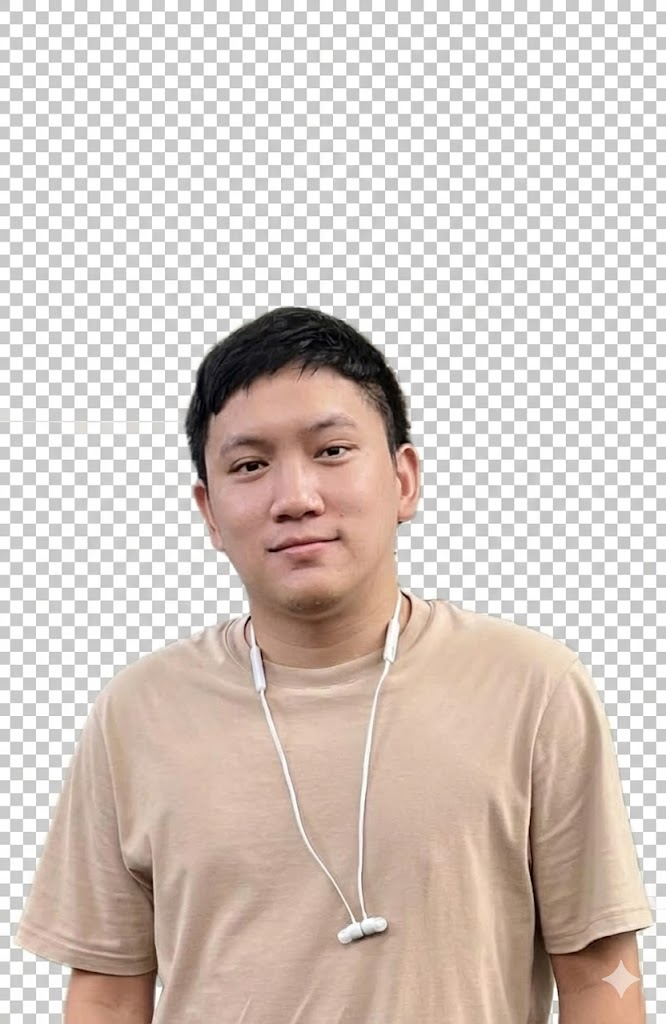
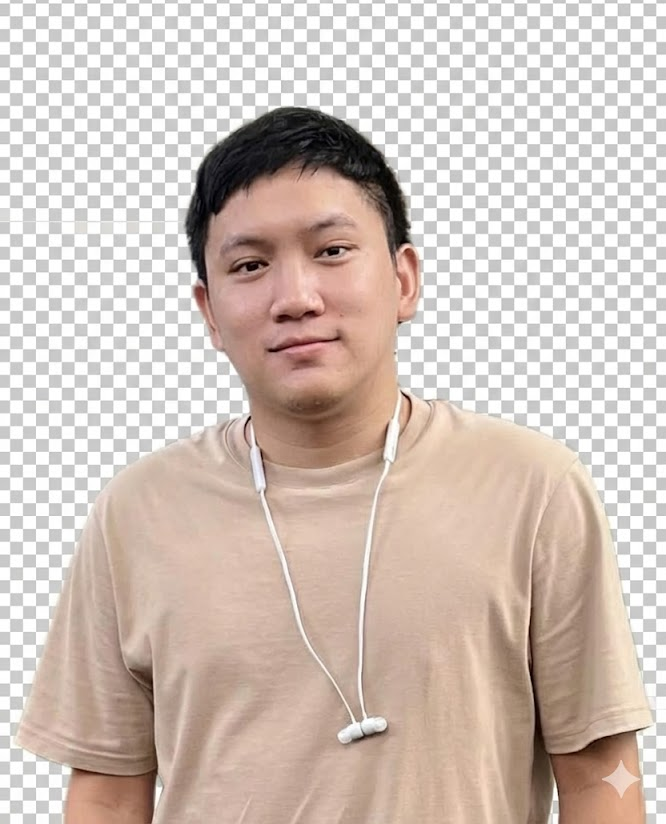
Updated

diff --git a/src/components/HeroSection.vue b/src/components/HeroSection.vue
@@ -39,7 +39,7 @@
                     target="_blank"
                     class="hero__cta"
                   >
-                    <span class="hero__cta-text">Know me more</span>
+                    <span class="hero__cta-text">Play a game to know me better</span>
                     <div class="hero__cta-icon">
                       <svg
                         viewBox="0 0 24 24"
@@ -102,7 +102,7 @@ export default {
       default: "UI/UX Interaction Designer\nBased in Poland",
     },
     biography: { type: String, default: "หาเงินเลี้ยงแมวครับ" },
-    profileImage: { type: String, default: "/sanookdev.png" },
+    profileImage: { type: String, default: "/profile-1.png" },
     techCategories: {
       type: Array,
       default: () => [
@@ -264,38 +264,102 @@ export default {
   transform: translateX(4px);
 }
 
-/* The Highlighted Button */
+/* The Highlighted Button - Glassmorphism Style */
 .hero__cta {
   position: relative;
   display: inline-flex;
   align-items: center;
-  gap: 16px;
-  padding: 14px 28px;
-  background-color: var(--color-text); /* ใช้ตัวแปรสีตาม Theme */
-  color: var(--color-bg); /* ใช้ตัวแปรสีตาม Theme */
+  gap: 12px;
+  padding: 16px 32px;
+  background: linear-gradient(135deg, rgba(255, 255, 255, 0.1), rgba(255, 255, 255, 0.05));
+  backdrop-filter: blur(10px);
+  -webkit-backdrop-filter: blur(10px);
+  color: var(--color-text);
   border-radius: 100px;
   text-decoration: none;
   font-weight: 600;
-  font-size: 15px;
+  font-size: 14px;
   overflow: hidden;
   transition: all 0.4s cubic-bezier(0.175, 0.885, 0.32, 1.275);
-  box-shadow: 0 10px 20px rgba(0, 0, 0, 0.1);
+  box-shadow: 
+    0 8px 32px rgba(0, 0, 0, 0.1),
+    inset 0 0 0 1px rgba(255, 255, 255, 0.2);
+  border: 1px solid rgba(255, 255, 255, 0.18);
+}
+
+/* Animated gradient border */
+.hero__cta::after {
+  content: "";
+  position: absolute;
+  inset: -2px;
+  border-radius: 100px;
+  background: linear-gradient(
+    135deg,
+    #667eea,
+    #764ba2,
+    #f093fb,
+    #f5576c,
+    #4facfe,
+    #00f2fe,
+    #667eea
+  );
+  background-size: 300% 300%;
+  z-index: -1;
+  animation: gradient-rotate 4s ease infinite;
+  opacity: 0;
+  transition: opacity 0.4s ease;
+}
+
+@keyframes gradient-rotate {
+  0% { background-position: 0% 50%; }
+  50% { background-position: 100% 50%; }
+  100% { background-position: 0% 50%; }
+}
+
+.hero__cta:hover::after {
+  opacity: 1;
+}
+
+.hero__cta-text {
+  position: relative;
+  z-index: 1;
+}
+
+.hero__cta-icon {
+  position: relative;
+  z-index: 1;
+  display: flex;
+  align-items: center;
+  justify-content: center;
+  width: 28px;
+  height: 28px;
+  background: linear-gradient(135deg, #667eea, #764ba2);
+  border-radius: 50%;
+  transition: all 0.4s ease;
 }
 
 .hero__cta-icon svg {
-  width: 18px;
-  height: 18px;
+  width: 14px;
+  height: 14px;
+  color: white;
   transition: transform 0.4s ease;
 }
 
 .hero__cta:hover {
-  transform: translateY(-5px);
-  box-shadow: 0 15px 30px rgba(0, 0, 0, 0.15);
-  /* ลบ background-color: #000; ออกแล้ว เพื่อให้ใช้สีจาก var(--color-text) เหมือนเดิม */
+  transform: translateY(-5px) scale(1.02);
+  box-shadow: 
+    0 20px 40px rgba(102, 126, 234, 0.3),
+    inset 0 0 0 1px rgba(255, 255, 255, 0.3);
+  background: linear-gradient(135deg, rgba(255, 255, 255, 0.15), rgba(255, 255, 255, 0.08));
 }
 
 .hero__cta:hover .hero__cta-icon {
-  transform: translateX(5px);
+  transform: translateX(4px) rotate(45deg);
+  background: linear-gradient(135deg, #f093fb, #f5576c);
+}
+
+.hero__cta:hover .hero__cta-icon svg {
+  transform: rotate(-45deg);
 }
 
 /* Shine Animation */
@@ -309,14 +373,25 @@ export default {
   background: linear-gradient(
     120deg,
     transparent,
-    rgba(255, 255, 255, 0.3),
-    /* สีขาวจางๆ สำหรับ Shine */ transparent
+    rgba(255, 255, 255, 0.4),
+    transparent
   );
   transition: all 0.6s;
+  z-index: 1;
 }
 
 .hero__cta:hover::before {
   left: 100%;
+}
+
+/* Floating animation */
+.hero__actions .hero__cta {
+  animation: float-button 3s ease-in-out infinite;
+}
+
+@keyframes float-button {
+  0%, 100% { transform: translateY(0); }
+  50% { transform: translateY(-6px); }
 }
 
 /* --- Stats & Image --- */
@@ -337,8 +412,10 @@ export default {
   transform: scale(1.02) translateY(-8px);
 }
 .hero__image {
+  display: block;
   width: 100%;
   height: 100%;
+  min-height: 200px;
   object-fit: cover;
 }
 
@@ -463,10 +540,22 @@ export default {
   }
   .hero__about {
     order: 1;
+    width: 100%;
+    display: flex;
+    flex-direction: column;
     align-items: center;
   }
   .hero__center {
     order: 0;
+    width: 100%;
+  }
+  .hero__image-wrapper {
+    margin: 0 auto;
+  }
+  .hero__section {
+    text-align: center;
+    align-items: center;
+    width: 100%;
   }
   .hero__tech {
     order: 2;
@@ -475,7 +564,14 @@ export default {
   }
   .hero__contact-section {
     order: 3;
+    width: 100%;
+    display: flex;
+    flex-direction: column;
     align-items: center;
+  }
+  .hero__contact {
+    align-items: center;
+    width: 100%;
   }
   .hero__tech-categories {
     align-items: center;
@@ -502,6 +598,11 @@ export default {
   }
   .hero__social-secondary {
     align-items: center;
+  }
+  .hero__actions {
+    display: flex;
+    justify-content: center;
+    width: 100%;
   }
   .hero__link-item:hover {
     transform: translateY(-2px);

diff --git a/src/components/AboutSection.vue b/src/components/AboutSection.vue
@@ -325,6 +325,15 @@ export default {
     max-width: 400px;
     margin: 0 auto;
   }
+
+  .about__text {
+    text-align: center;
+    align-items: center;
+  }
+
+  .about__cta {
+    justify-content: center;
+  }
 }
 
 @media (max-width: 768px) {

diff --git a/src/components/ContactSection.vue b/src/components/ContactSection.vue
@@ -317,6 +317,15 @@ a.contact__info-value:hover {
     grid-template-columns: 1fr;
     gap: 48px;
   }
+
+  .contact__info {
+    align-items: center;
+    text-align: center;
+  }
+
+  .contact__info-item {
+    align-items: center;
+  }
 }
 
 @media (max-width: 768px) {

diff --git a/src/components/AppHeader.vue b/src/components/AppHeader.vue
@@ -22,7 +22,7 @@
       <!-- Logo -->
       <router-link to="/" class="header__logo">
         <img
-          src="/sanookdev.png"
+          src="/profile-1-Photoroom.png"
           alt="Warat Supaporn"
           class="header__logo-img"
         />

diff --git a/src/views/HomeView.vue b/src/views/HomeView.vue
@@ -7,7 +7,7 @@
       location="Pathum Thani, Thailand"
       email="[email redacted]"
       :services="['Website Design', 'Web Application', 'Fix Bug']"
-      profileImage="/profile-1-Photoroom.png"
+      profileImage="/sanookdev.png"
       :stats="[
         { label: 'BASKETBALL', value: '' },
         { label: 'PLAY WITH CATS', value: '' },